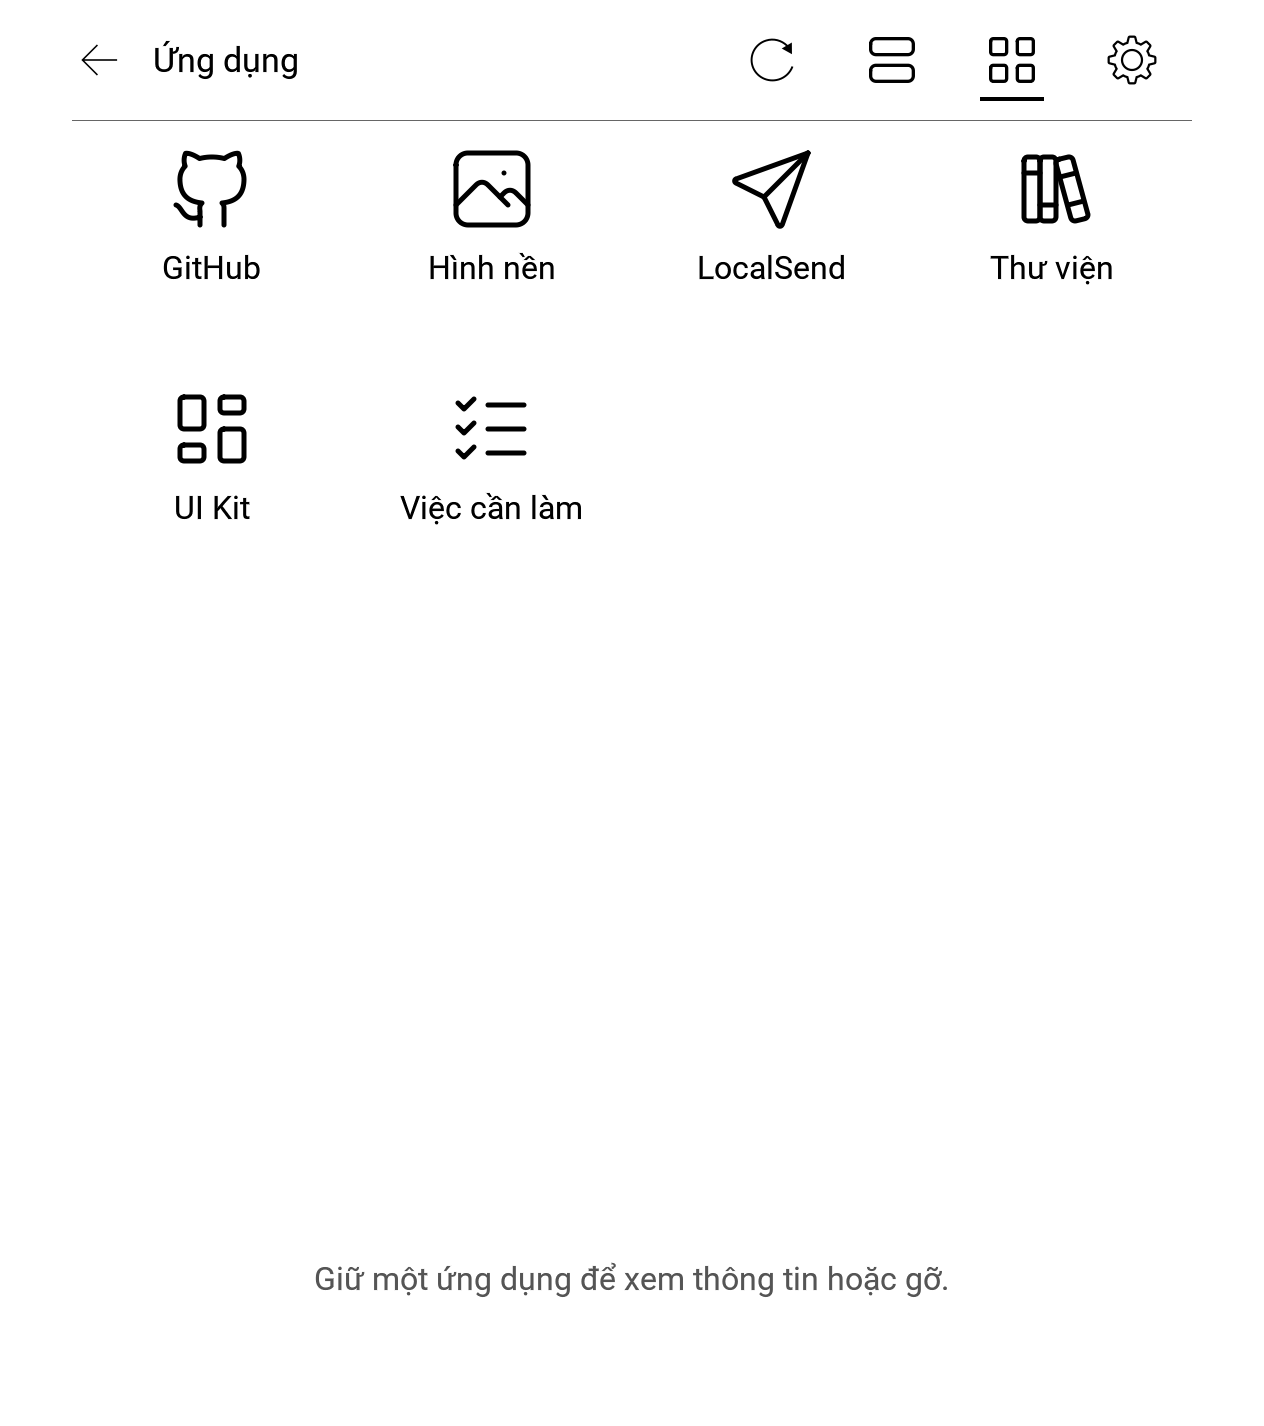
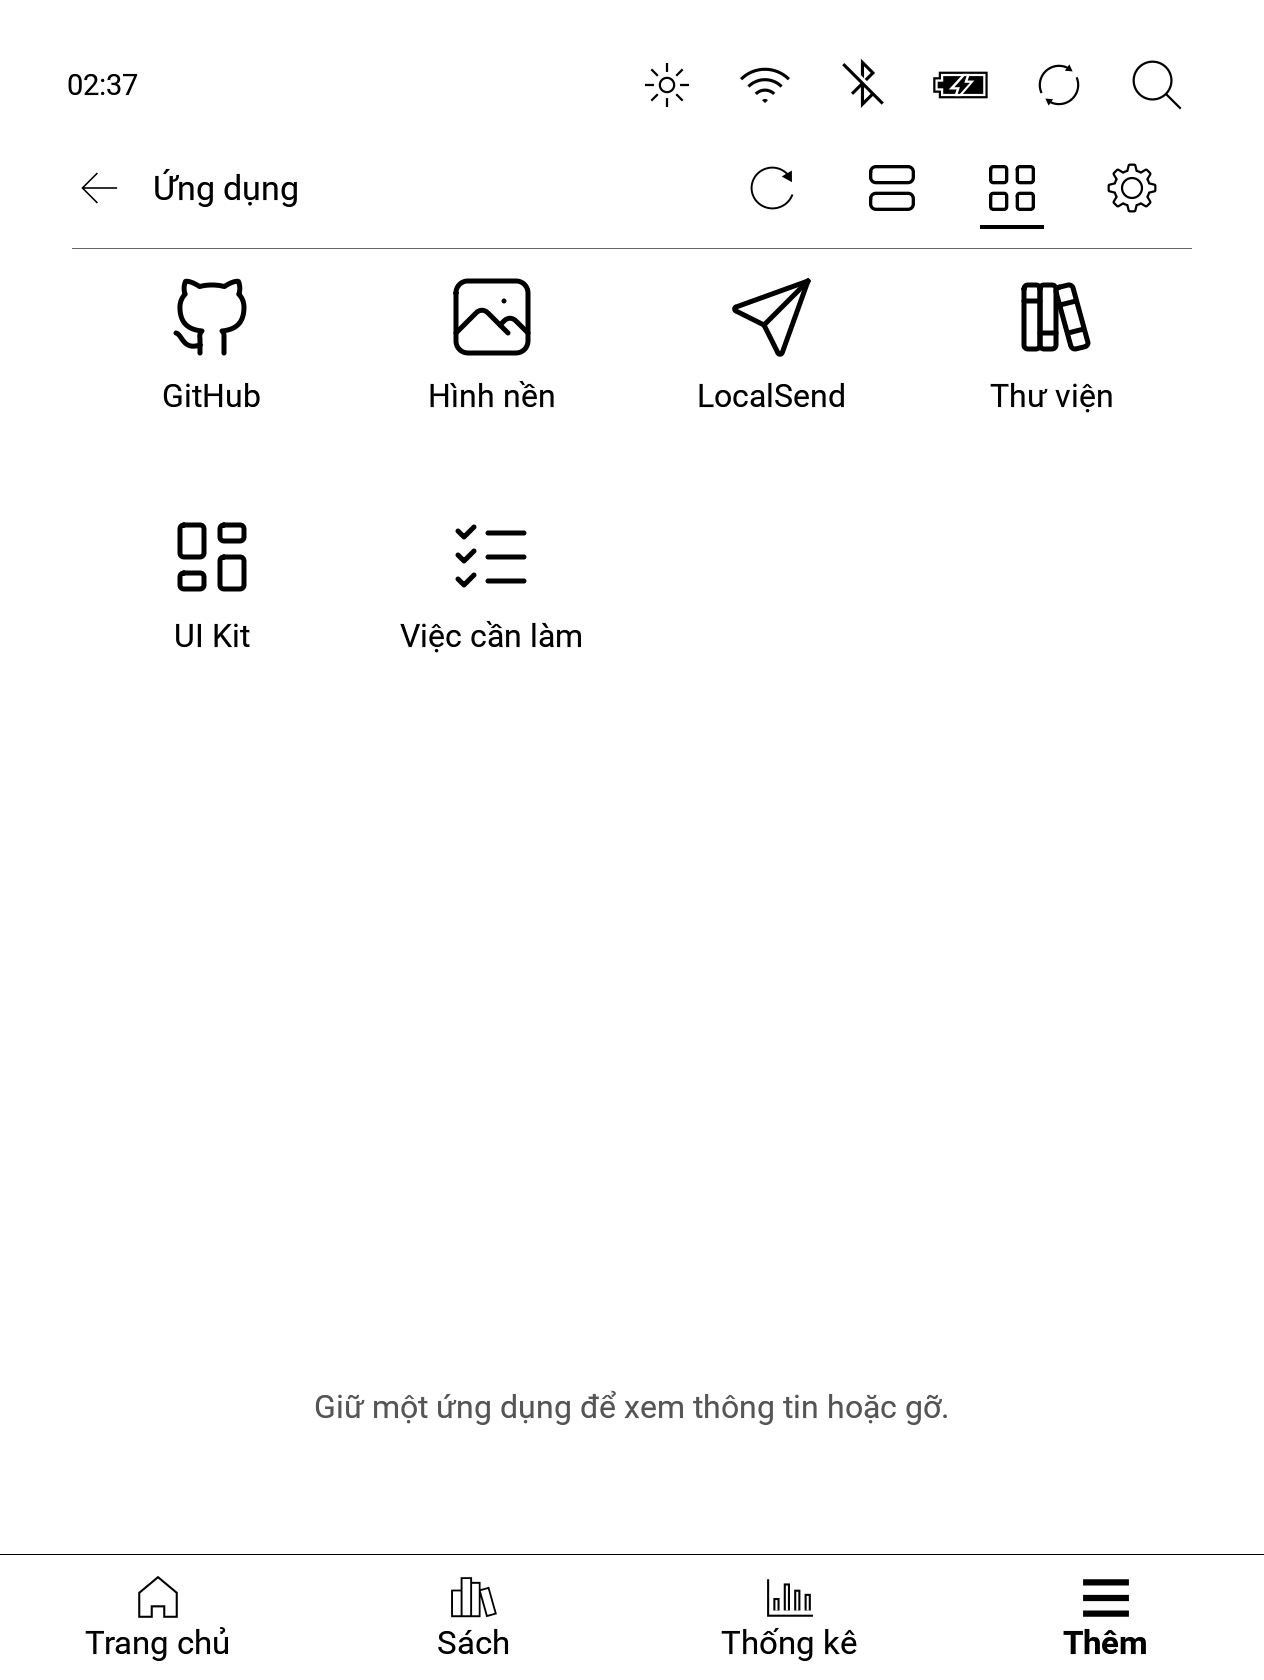
docs: use the full device screenshots in the READMEs

diff --git a/docs/DECISIONS.md b/docs/DECISIONS.md
@@ -43,4 +43,4 @@
 | 2026-10-10 | The UI Kit is a catalogue with a `samples` states matrix; the drawer empty state offers "Find apps" only when there is something to do | One page per component (description, states as pictures, one live sample, readout of the last event, guidance); `samples` cells are pictures with no events and never count as the primary. The drawer's primary on its empty state exists only once the model is loaded and the host offers `_refresh`; while loading it shows the heading alone. Dates and times come from the locale (`format.*`). |
 
 | 2026-10-11 | App developer exception (`LICENSE-APPS.md`): apps that only use the public interfaces are not derivative works; dev tools usable for any app; template and examples 0BSD | The drawer is PolyForm Noncommercial, but its license must not decide the license of apps other people write for it, or nobody could ship a paid or differently licensed app. LICENSE stays the verbatim PolyForm text. |
-| 2026-10-11 | README pictures are real device screenshots, cropped to the drawer | The maintainer preferred real screens over renders. Kobo's status bar and tab bar are cropped out, and the screens show no book titles or covers. |
+| 2026-10-11 | README pictures are real, uncropped device screenshots | The maintainer preferred real screens over renders, including Nickel's status and tab bars as they look on the device. The screens show no book titles or covers. |

diff --git a/README.vi.md b/README.vi.md
@@ -8,7 +8,7 @@ Ngăn ứng dụng cho máy đọc sách Kobo chạy phần mềm gốc (Nickel)
 |---|---|
 | ![Ngăn ứng dụng dạng danh sách trên Kobo Libra 2](docs/img/device-list.png) | ![Ngăn ứng dụng dạng lưới trên Kobo Libra 2](docs/img/device-grid.png) |
 
-Ảnh chụp từ Kobo Libra 2 (tiếng Việt), chỉ giữ phần Ngăn (bỏ thanh trạng thái và thanh tab của Kobo). Ngăn hiện ứng dụng dạng danh sách (biểu tượng, tên, trạng thái trực tiếp) hoặc dạng lưới; các nút trên tiêu đề chuyển dạng xem, làm mới danh sách và mở cài đặt của Ngăn.
+Ảnh chụp từ Kobo Libra 2 (tiếng Việt). Ngăn hiện ứng dụng dạng danh sách (biểu tượng, tên, trạng thái trực tiếp) hoặc dạng lưới; các nút trên tiêu đề chuyển dạng xem, làm mới danh sách và mở cài đặt của Ngăn.
 
 ## Bạn được gì
 

diff --git a/README.md b/README.md
@@ -10,7 +10,7 @@ Tiếng Việt: [README.vi.md](README.vi.md).
 |---|---|
 | ![The drawer's list view on a Kobo Libra 2](docs/img/device-list.png) | ![The drawer's grid view on a Kobo Libra 2](docs/img/device-grid.png) |
 
-Screenshots from a Kobo Libra 2 set to Vietnamese, cropped to the drawer (Kobo's own status bar and tab bar are left out). The drawer shows your apps as a list (icon, name, live status) or as a grid; the buttons in the header switch between them, refresh the list and open the drawer settings.
+Screenshots from a Kobo Libra 2 set to Vietnamese. The drawer shows your apps as a list (icon, name, live status) or as a grid; the buttons in the header switch between them, refresh the list and open the drawer settings.
 
 ## What you get
 
